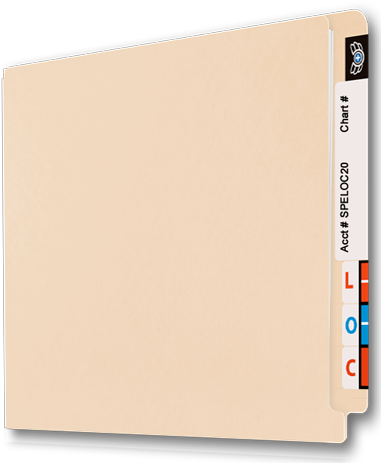
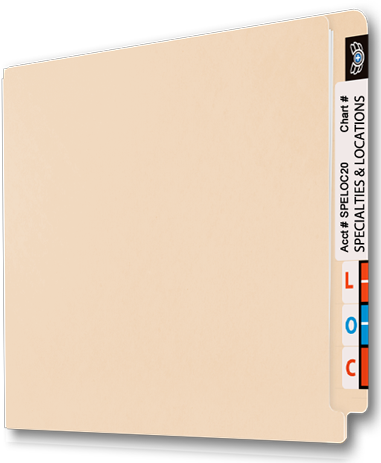
image switch on hover - optimized hover.pngs

Changed region(s): [[0.9239, 0.2117, 0.9816, 0.5443]]

diff --git a/_site/index.html b/_site/index.html
@@ -11,7 +11,7 @@
         <meta name="keywords" content="">
         <meta name="description" content="">
 
-        <link rel="stylesheet" href="css/global.css?1362408971">
+        <link rel="stylesheet" href="css/global.css?1365012878">
         <script src="js/modernizr-2.6.2-ck.js"></script>
     </head>
 
@@ -36,7 +36,7 @@
     </div>
         <div class="folder-group">
             <div class="folder-egl"> 
-              <a href="http://www.eaglemds.com/careers"><img src="img/folder-egl.png" alt="Eagle Careers">
+              <a href="http://www.eaglemds.com/careers"><img src="img/folder-egl.png" onmouseover="this.src='img/folder-egl-hover.png';" onmouseout="this.src='img/folder-egl.png';" alt="Eagle Careers">
                 <audio id="folder-out" preload="auto">
                   <source src="audio/folder_out.mp3">
                   <source src="audio/folder_out.ogg">
@@ -47,43 +47,43 @@
                   <source src="audio/folder_in.ogg">
                 </audio><!-- end folder-in audio -->
 
-                <h3><span>EAGLE CAREERS</span></h3>
+                <!-- <h3><span>EAGLE CAREERS</span></h3> -->
                 <!-- <h4>Acct # JOBS20 <span class="egl-chart">Chart #</span></h4> -->
               </a>
             </div>
             <div class="folder-log">
-              <a href="http://www.eaglemds.com/stay-healthy"><img src="img/folder-log.png" alt="Stay Healthy">
-                <h3><span>STAY HEALTHY</span></h3>
+              <a href="http://www.eaglemds.com/stay-healthy"><img src="img/folder-log.png" onmouseover="this.src='img/folder-log-hover.png';" onmouseout="this.src='img/folder-log.png';" alt="Stay Healthy">
+                <!-- <h3><span>STAY HEALTHY</span></h3> -->
                 <!-- <h4>Acct # ADLOG20 <span class="log-chart">Chart #</span></h4> -->
               </a>
             </div>
             <div class="folder-dia">
-              <a href="http://www.eaglemds.com/self-diagnosis"><img src="img/folder-dia.png" alt="Self Diagnosis">
-                <h3><span>SELF DIAGNOSIS</span></h3>
+              <a href="http://www.eaglemds.com/self-diagnosis"><img src="img/folder-dia.png" onmouseover="this.src='img/folder-dia-hover.png';" onmouseout="this.src='img/folder-dia.png';" alt="Self Diagnosis">
+                <!-- <h3><span>SELF DIAGNOSIS</span></h3> -->
                 <!-- <h4>Acct # SELFDIA20 <span class="dia-chart">Chart #</span></h4> -->
               </a>
             </div>
             <div class="folder-nws">
-              <a href="http://www.eaglemds.com/eagle-news"><img src="img/folder-nws.png" alt="Eagle News">
-                <h3><span>EAGLE NEWS</span></h3>
+              <a href="http://www.eaglemds.com/eagle-news"><img src="img/folder-nws.png" onmouseover="this.src='img/folder-nws-hover.png';" onmouseout="this.src='img/folder-nws.png';" alt="Eagle News">
+                <!-- <h3><span>EAGLE NEWS</span></h3> -->
                 <!-- <h4>Acct # EAGNWS20 <span class="nws-chart">Chart #</span></h4> -->
               </a>
             </div>
             <div class="folder-loc">
-              <a href="http://www.eaglemds.com/specialties-and-locations"><img src="img/folder-loc.png" alt="Specialties & Locations">
-                <h3><span>SPECIALTIES & LOCATIONS</span></h3>
+              <a href="http://www.eaglemds.com/specialties-and-locations"><img src="img/folder-loc.png" onmouseover="this.src='img/folder-loc-hover.png';" onmouseout="this.src='img/folder-loc.png';" alt="Specialties & Locations">
+                <!-- <h3><span>SPECIALTIES & LOCATIONS</span></h3> -->
                 <!-- <h4>Acct # SPELOC20 <span class="loc-chart">Chart #</span></h4> -->
               </a>
             </div>
             <div class="folder-drs">
-              <a href="http://www.eaglemds.com/physicians"><img src="img/folder-drs.png" alt="Provider Directory">
-                <h3><span>PROVIDER DIRECTORY</span></h3>
+              <a href="http://www.eaglemds.com/physicians"><img src="img/folder-drs.png" onmouseover="this.src='img/folder-drs-hover.png';" onmouseout="this.src='img/folder-drs.png';" alt="Provider Directory">
+                <!-- <h3><span>PROVIDER DIRECTORY</span></h3> -->
                 <!-- <h4>Acct # PRODIR20 <span class="drs-chart">Chart #</span></h4> -->
               </a>
             </div>
             <div class="folder-abt">
-              <a href="http://www.eaglemds.com/about"><img src="img/folder-abt.png" alt="About Eagle Physicians">
-                <h3><span>ABOUT EAGLE PHYSICIANS</span></h3>
+              <a href="http://www.eaglemds.com/about"><img src="img/folder-abt.png" onmouseover="this.src='img/folder-abt-hover.png';" onmouseout="this.src='img/folder-abt.png';" alt="About Eagle Physicians">
+                <!-- <h3><span>ABOUT EAGLE PHYSICIANS</span></h3> -->
                 <!-- <h4>Acct # ABTEGL20 <span class="abt-chart">Chart #</span></h4> -->
               </a>
             </div>

diff --git a/index.html b/index.html
@@ -10,7 +10,7 @@ layout: default
     </div>
         <div class="folder-group">
             <div class="folder-egl"> 
-              <a href="http://www.eaglemds.com/careers"><img src="img/folder-egl.png" alt="Eagle Careers">
+              <a href="http://www.eaglemds.com/careers"><img src="img/folder-egl.png" onmouseover="this.src='img/folder-egl-hover.png';" onmouseout="this.src='img/folder-egl.png';" alt="Eagle Careers">
                 <audio id="folder-out" preload="auto">
                   <source src="audio/folder_out.mp3">
                   <source src="audio/folder_out.ogg">
@@ -21,43 +21,43 @@ layout: default
                   <source src="audio/folder_in.ogg">
                 </audio><!-- end folder-in audio -->
 
-                <h3><span>EAGLE CAREERS</span></h3>
+                <!-- <h3><span>EAGLE CAREERS</span></h3> -->
                 <!-- <h4>Acct # JOBS20 <span class="egl-chart">Chart #</span></h4> -->
               </a>
             </div>
             <div class="folder-log">
-              <a href="http://www.eaglemds.com/stay-healthy"><img src="img/folder-log.png" alt="Stay Healthy">
-                <h3><span>STAY HEALTHY</span></h3>
+              <a href="http://www.eaglemds.com/stay-healthy"><img src="img/folder-log.png" onmouseover="this.src='img/folder-log-hover.png';" onmouseout="this.src='img/folder-log.png';" alt="Stay Healthy">
+                <!-- <h3><span>STAY HEALTHY</span></h3> -->
                 <!-- <h4>Acct # ADLOG20 <span class="log-chart">Chart #</span></h4> -->
               </a>
             </div>
             <div class="folder-dia">
-              <a href="http://www.eaglemds.com/self-diagnosis"><img src="img/folder-dia.png" alt="Self Diagnosis">
-                <h3><span>SELF DIAGNOSIS</span></h3>
+              <a href="http://www.eaglemds.com/self-diagnosis"><img src="img/folder-dia.png" onmouseover="this.src='img/folder-dia-hover.png';" onmouseout="this.src='img/folder-dia.png';" alt="Self Diagnosis">
+                <!-- <h3><span>SELF DIAGNOSIS</span></h3> -->
                 <!-- <h4>Acct # SELFDIA20 <span class="dia-chart">Chart #</span></h4> -->
               </a>
             </div>
             <div class="folder-nws">
-              <a href="http://www.eaglemds.com/eagle-news"><img src="img/folder-nws.png" alt="Eagle News">
-                <h3><span>EAGLE NEWS</span></h3>
+              <a href="http://www.eaglemds.com/eagle-news"><img src="img/folder-nws.png" onmouseover="this.src='img/folder-nws-hover.png';" onmouseout="this.src='img/folder-nws.png';" alt="Eagle News">
+                <!-- <h3><span>EAGLE NEWS</span></h3> -->
                 <!-- <h4>Acct # EAGNWS20 <span class="nws-chart">Chart #</span></h4> -->
               </a>
             </div>
             <div class="folder-loc">
-              <a href="http://www.eaglemds.com/specialties-and-locations"><img src="img/folder-loc.png" alt="Specialties & Locations">
-                <h3><span>SPECIALTIES & LOCATIONS</span></h3>
+              <a href="http://www.eaglemds.com/specialties-and-locations"><img src="img/folder-loc.png" onmouseover="this.src='img/folder-loc-hover.png';" onmouseout="this.src='img/folder-loc.png';" alt="Specialties & Locations">
+                <!-- <h3><span>SPECIALTIES & LOCATIONS</span></h3> -->
                 <!-- <h4>Acct # SPELOC20 <span class="loc-chart">Chart #</span></h4> -->
               </a>
             </div>
             <div class="folder-drs">
-              <a href="http://www.eaglemds.com/physicians"><img src="img/folder-drs.png" alt="Provider Directory">
-                <h3><span>PROVIDER DIRECTORY</span></h3>
+              <a href="http://www.eaglemds.com/physicians"><img src="img/folder-drs.png" onmouseover="this.src='img/folder-drs-hover.png';" onmouseout="this.src='img/folder-drs.png';" alt="Provider Directory">
+                <!-- <h3><span>PROVIDER DIRECTORY</span></h3> -->
                 <!-- <h4>Acct # PRODIR20 <span class="drs-chart">Chart #</span></h4> -->
               </a>
             </div>
             <div class="folder-abt">
-              <a href="http://www.eaglemds.com/about"><img src="img/folder-abt.png" alt="About Eagle Physicians">
-                <h3><span>ABOUT EAGLE PHYSICIANS</span></h3>
+              <a href="http://www.eaglemds.com/about"><img src="img/folder-abt.png" onmouseover="this.src='img/folder-abt-hover.png';" onmouseout="this.src='img/folder-abt.png';" alt="About Eagle Physicians">
+                <!-- <h3><span>ABOUT EAGLE PHYSICIANS</span></h3> -->
                 <!-- <h4>Acct # ABTEGL20 <span class="abt-chart">Chart #</span></h4> -->
               </a>
             </div>
